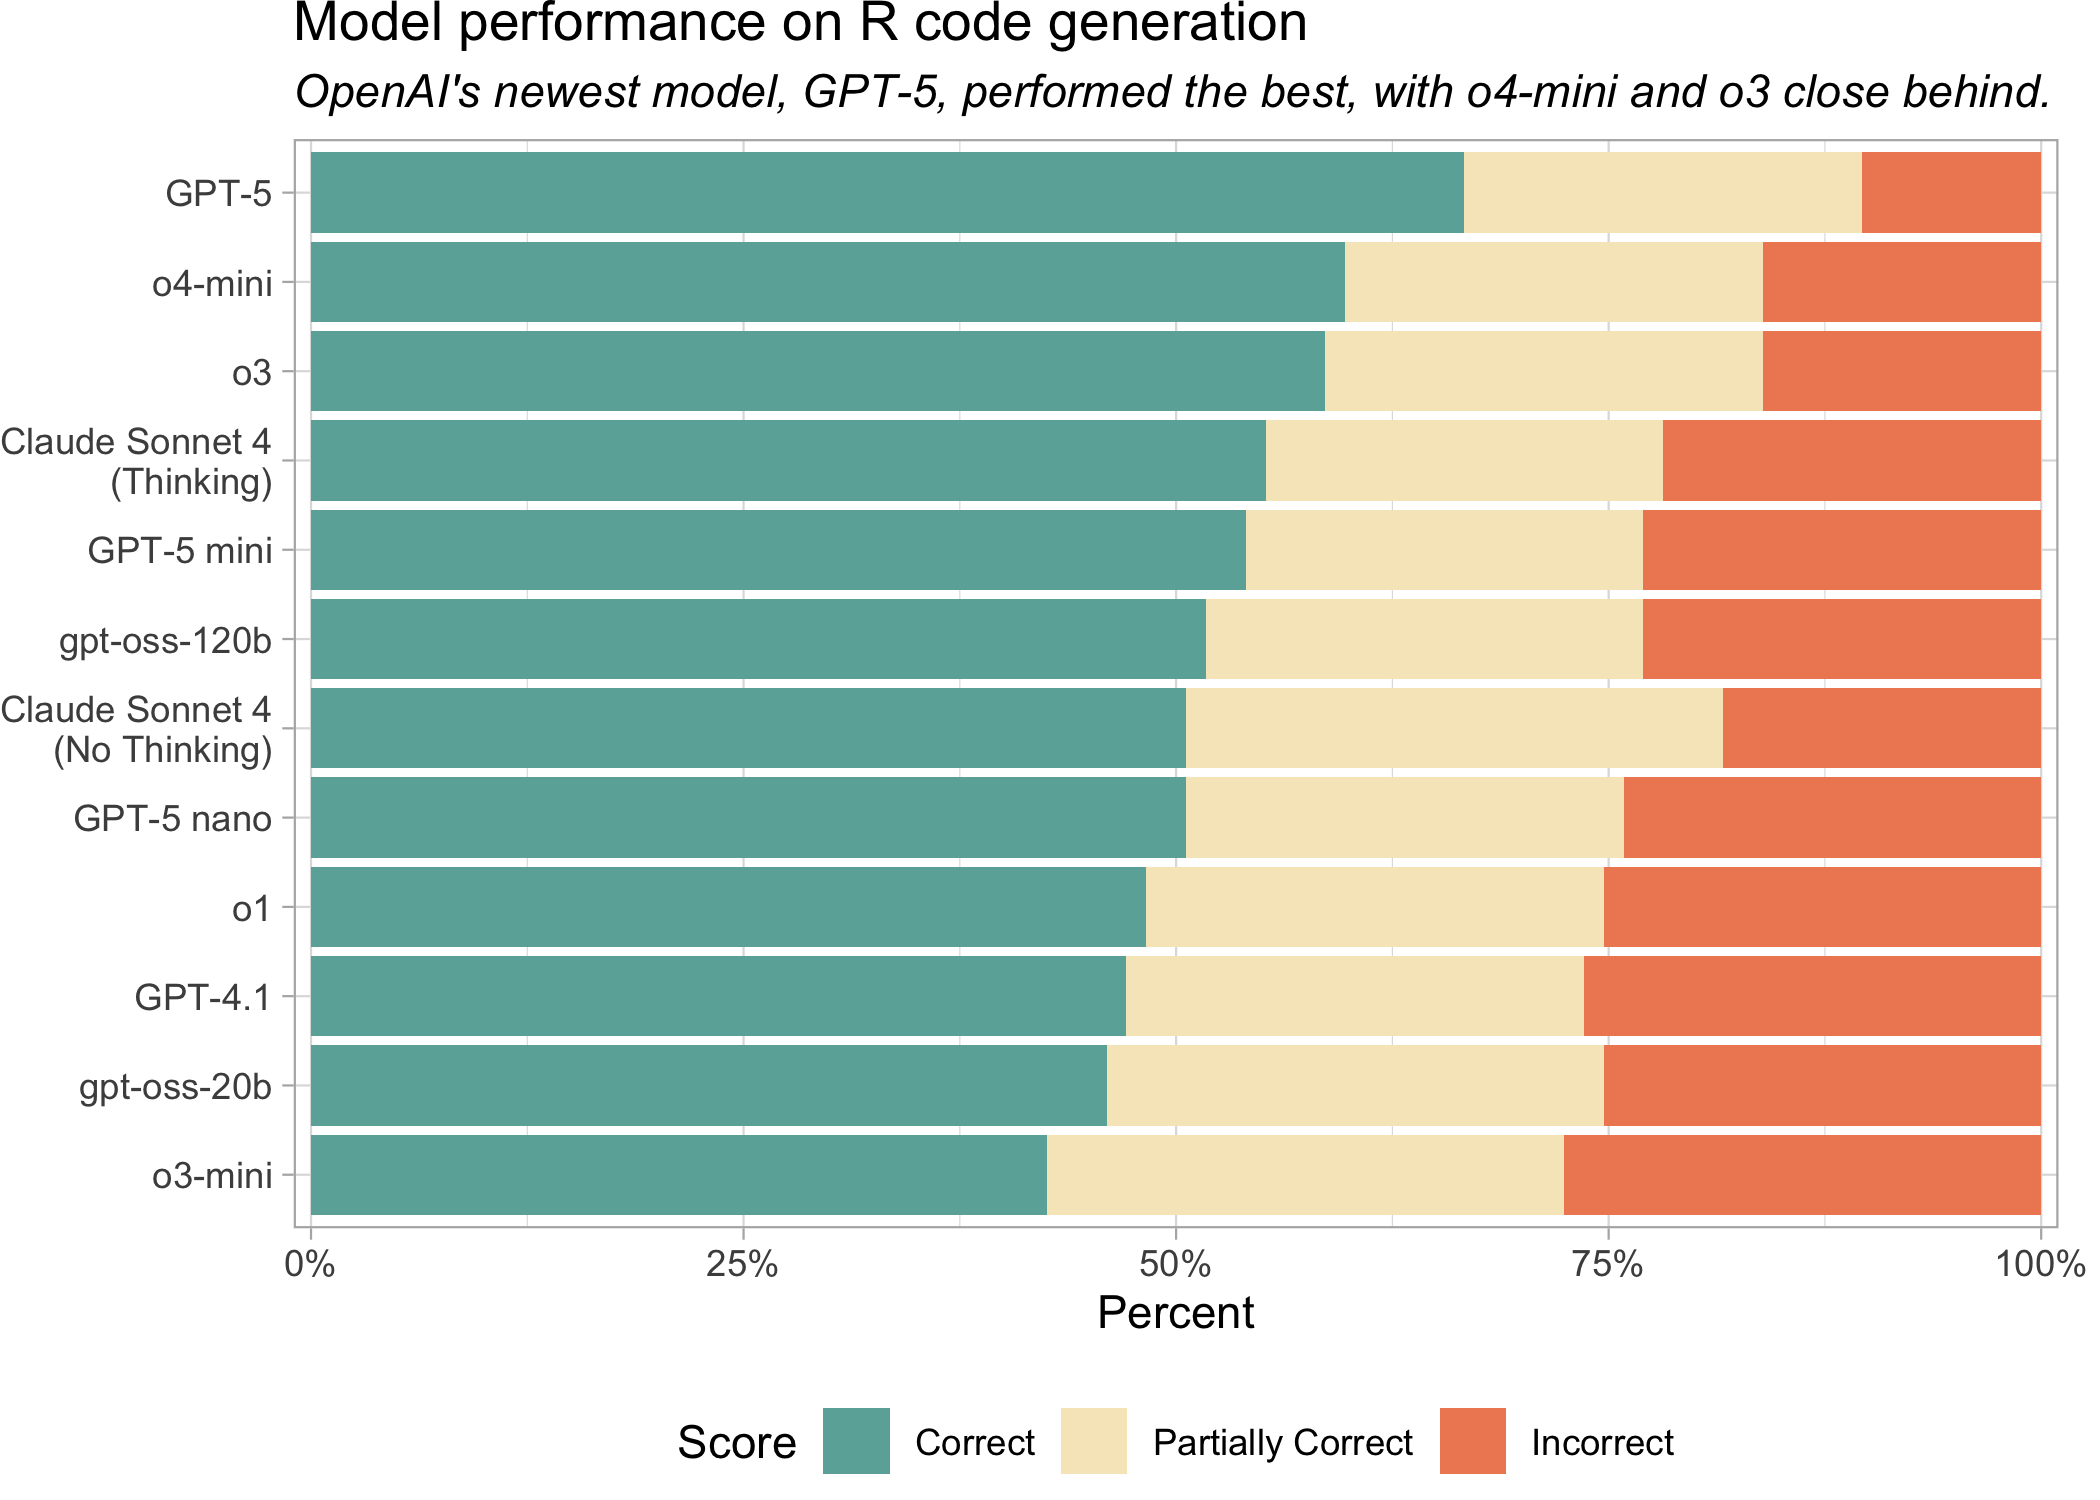
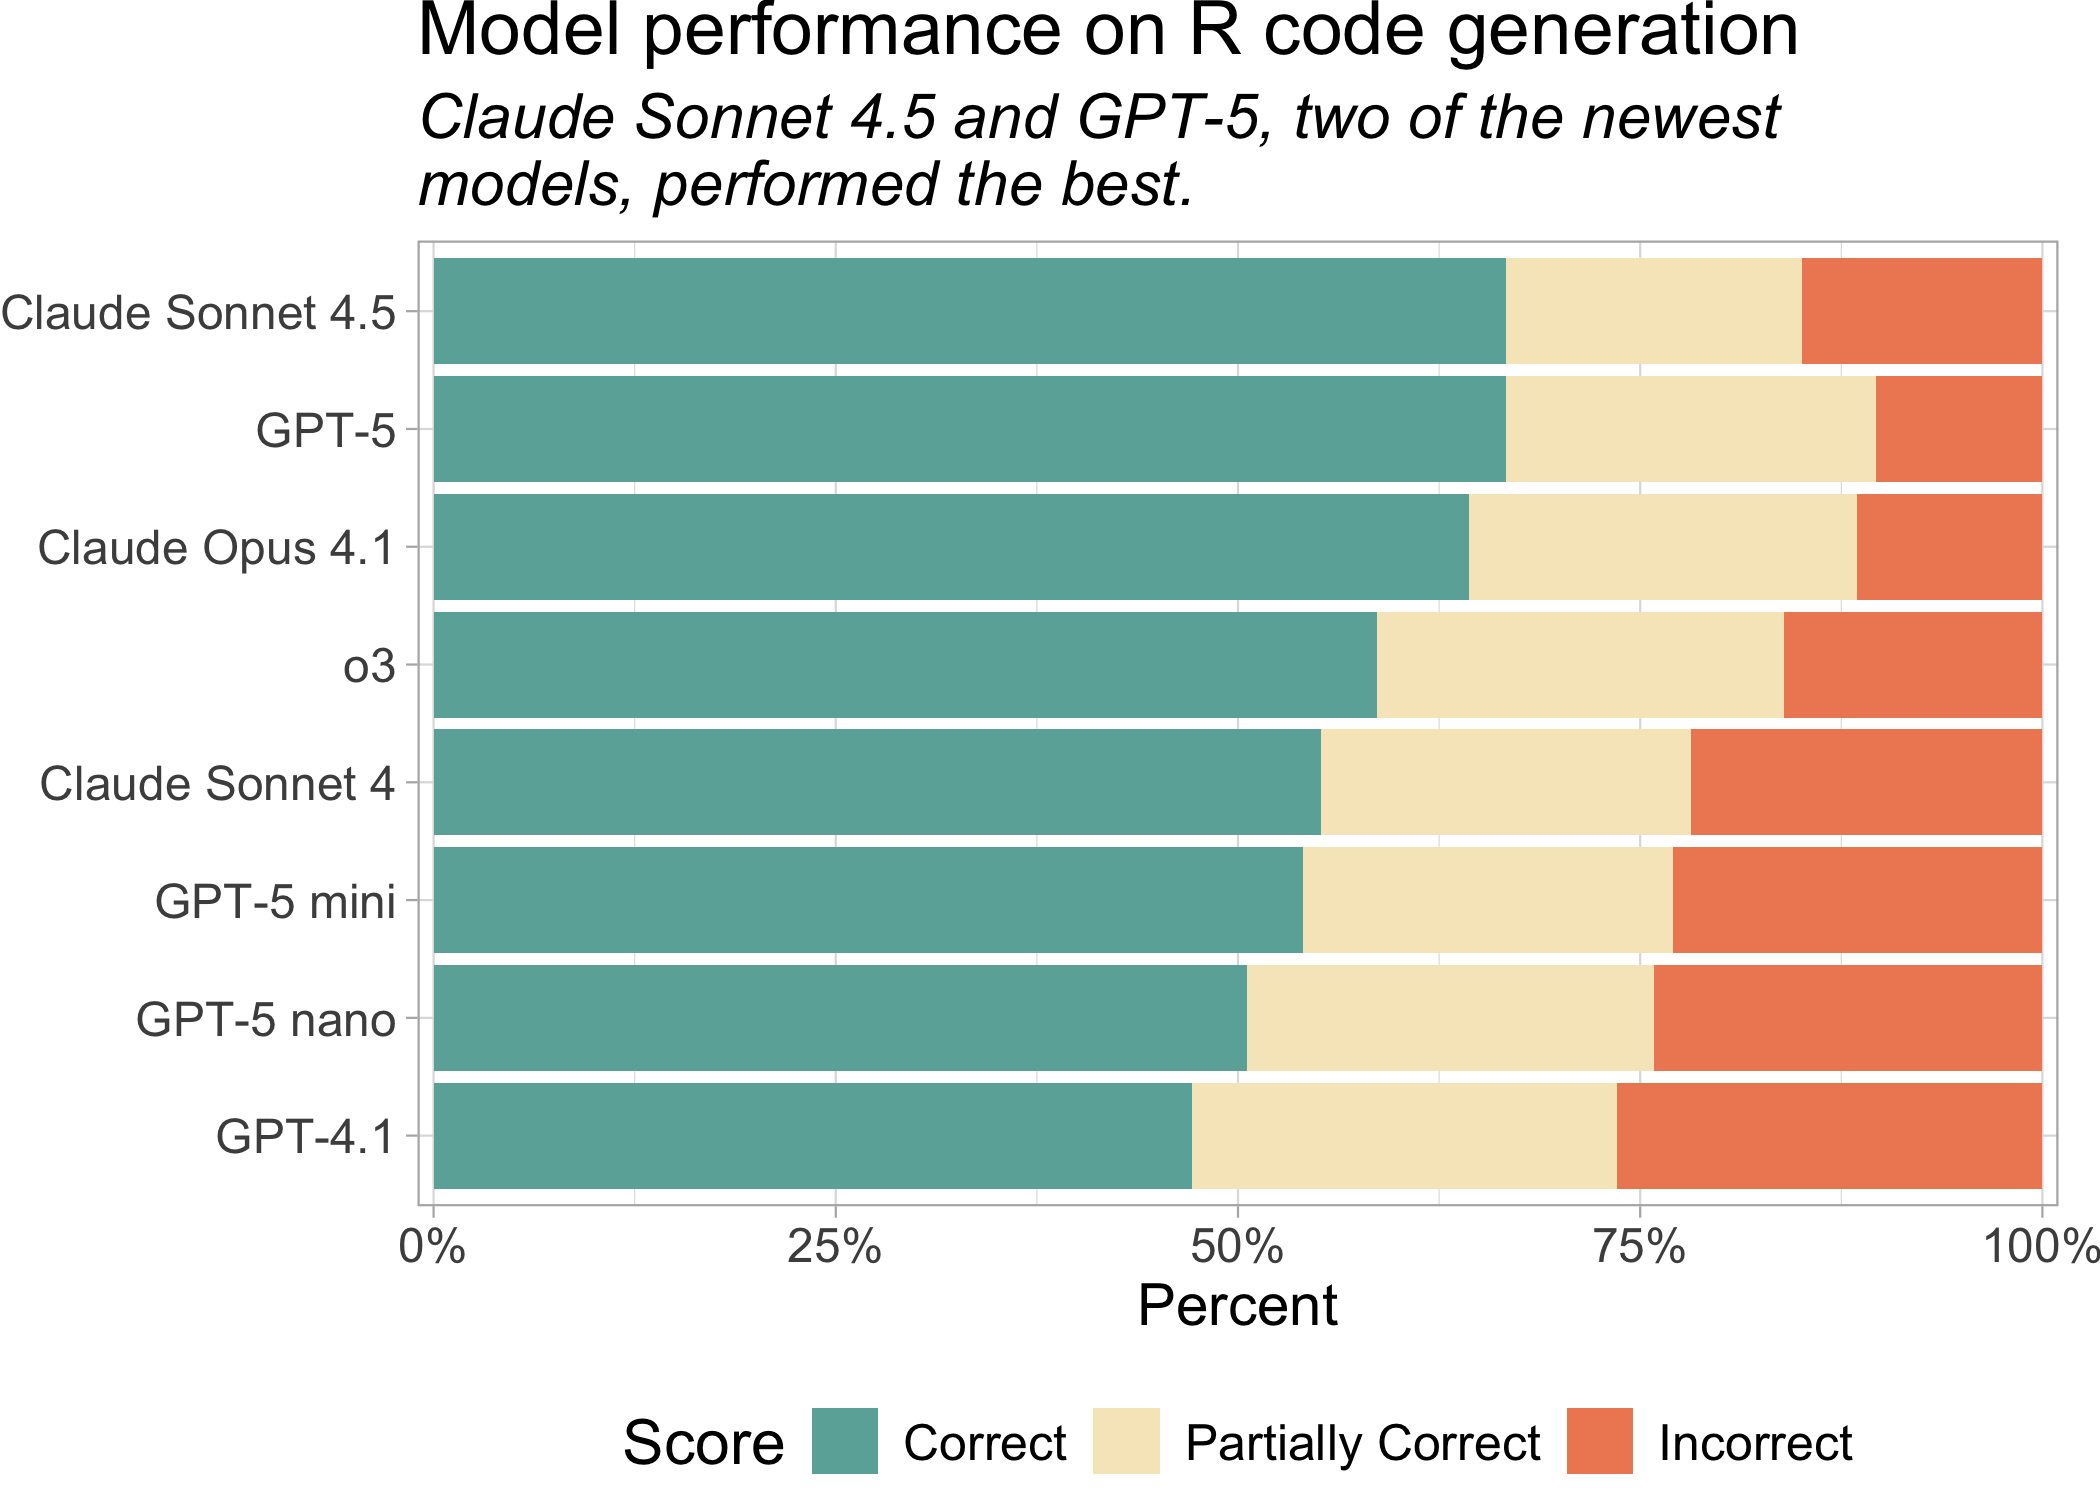
update with new models

diff --git a/blog.md b/blog.md
@@ -93,25 +93,25 @@ still need to host them somewhere, which can incur significant costs.
 LLM pricing is typically provided per million tokens. In our evaluation
 process, each model used between 26,070 and 31,720 input tokens and
 between 42,320 and 289,000 output tokens. The entire analysis cost
-around \$19.
+around \$24.
 
 As noted above, although the gpt-oss models are free to use, you may
 need to pay to host them if you are unable to run them locally.
 
-<div id="junykfxhhh" style="padding-left:0px;padding-right:0px;padding-top:10px;padding-bottom:10px;overflow-x:auto;overflow-y:auto;width:auto;height:auto;">
-<style>#junykfxhhh table {
+<div id="lvefqofxhr" style="padding-left:0px;padding-right:0px;padding-top:10px;padding-bottom:10px;overflow-x:auto;overflow-y:auto;width:auto;height:auto;">
+<style>#lvefqofxhr table {
   font-family: system-ui, 'Segoe UI', Roboto, Helvetica, Arial, sans-serif, 'Apple Color Emoji', 'Segoe UI Emoji', 'Segoe UI Symbol', 'Noto Color Emoji';
   -webkit-font-smoothing: antialiased;
   -moz-osx-font-smoothing: grayscale;
 }
-&#10;#junykfxhhh thead, #junykfxhhh tbody, #junykfxhhh tfoot, #junykfxhhh tr, #junykfxhhh td, #junykfxhhh th {
+&#10;#lvefqofxhr thead, #lvefqofxhr tbody, #lvefqofxhr tfoot, #lvefqofxhr tr, #lvefqofxhr td, #lvefqofxhr th {
   border-style: none;
 }
-&#10;#junykfxhhh p {
+&#10;#lvefqofxhr p {
   margin: 0;
   padding: 0;
 }
-&#10;#junykfxhhh .gt_table {
+&#10;#lvefqofxhr .gt_table {
   display: table;
   border-collapse: collapse;
   line-height: normal;
@@ -136,11 +136,11 @@ need to pay to host them if you are unable to run them locally.
   border-left-width: 2px;
   border-left-color: #D3D3D3;
 }
-&#10;#junykfxhhh .gt_caption {
+&#10;#lvefqofxhr .gt_caption {
   padding-top: 4px;
   padding-bottom: 4px;
 }
-&#10;#junykfxhhh .gt_title {
+&#10;#lvefqofxhr .gt_title {
   color: #333333;
   font-size: 125%;
   font-weight: initial;
@@ -151,7 +151,7 @@ need to pay to host them if you are unable to run them locally.
   border-bottom-color: #FFFFFF;
   border-bottom-width: 0;
 }
-&#10;#junykfxhhh .gt_subtitle {
+&#10;#lvefqofxhr .gt_subtitle {
   color: #333333;
   font-size: 85%;
   font-weight: initial;
@@ -162,7 +162,7 @@ need to pay to host them if you are unable to run them locally.
   border-top-color: #FFFFFF;
   border-top-width: 0;
 }
-&#10;#junykfxhhh .gt_heading {
+&#10;#lvefqofxhr .gt_heading {
   background-color: #FFFFFF;
   text-align: center;
   border-bottom-color: #FFFFFF;
@@ -173,12 +173,12 @@ need to pay to host them if you are unable to run them locally.
   border-right-width: 1px;
   border-right-color: #D3D3D3;
 }
-&#10;#junykfxhhh .gt_bottom_border {
+&#10;#lvefqofxhr .gt_bottom_border {
   border-bottom-style: solid;
   border-bottom-width: 2px;
   border-bottom-color: #D3D3D3;
 }
-&#10;#junykfxhhh .gt_col_headings {
+&#10;#lvefqofxhr .gt_col_headings {
   border-top-style: solid;
   border-top-width: 2px;
   border-top-color: #D3D3D3;
@@ -192,7 +192,7 @@ need to pay to host them if you are unable to run them locally.
   border-right-width: 1px;
   border-right-color: #D3D3D3;
 }
-&#10;#junykfxhhh .gt_col_heading {
+&#10;#lvefqofxhr .gt_col_heading {
   color: #333333;
   background-color: #FFFFFF;
   font-size: 100%;
@@ -211,7 +211,7 @@ need to pay to host them if you are unable to run them locally.
   padding-right: 5px;
   overflow-x: hidden;
 }
-&#10;#junykfxhhh .gt_column_spanner_outer {
+&#10;#lvefqofxhr .gt_column_spanner_outer {
   color: #333333;
   background-color: #FFFFFF;
   font-size: 100%;
@@ -222,13 +222,13 @@ need to pay to host them if you are unable to run them locally.
   padding-left: 4px;
   padding-right: 4px;
 }
-&#10;#junykfxhhh .gt_column_spanner_outer:first-child {
+&#10;#lvefqofxhr .gt_column_spanner_outer:first-child {
   padding-left: 0;
 }
-&#10;#junykfxhhh .gt_column_spanner_outer:last-child {
+&#10;#lvefqofxhr .gt_column_spanner_outer:last-child {
   padding-right: 0;
 }
-&#10;#junykfxhhh .gt_column_spanner {
+&#10;#lvefqofxhr .gt_column_spanner {
   border-bottom-style: solid;
   border-bottom-width: 2px;
   border-bottom-color: #D3D3D3;
@@ -239,10 +239,10 @@ need to pay to host them if you are unable to run them locally.
   display: inline-block;
   width: 100%;
 }
-&#10;#junykfxhhh .gt_spanner_row {
+&#10;#lvefqofxhr .gt_spanner_row {
   border-bottom-style: hidden;
 }
-&#10;#junykfxhhh .gt_group_heading {
+&#10;#lvefqofxhr .gt_group_heading {
   padding-top: 8px;
   padding-bottom: 8px;
   padding-left: 5px;
@@ -267,7 +267,7 @@ need to pay to host them if you are unable to run them locally.
   vertical-align: middle;
   text-align: left;
 }
-&#10;#junykfxhhh .gt_empty_group_heading {
+&#10;#lvefqofxhr .gt_empty_group_heading {
   padding: 0.5px;
   color: #333333;
   background-color: #FFFFFF;
@@ -281,13 +281,13 @@ need to pay to host them if you are unable to run them locally.
   border-bottom-color: #D3D3D3;
   vertical-align: middle;
 }
-&#10;#junykfxhhh .gt_from_md > :first-child {
+&#10;#lvefqofxhr .gt_from_md > :first-child {
   margin-top: 0;
 }
-&#10;#junykfxhhh .gt_from_md > :last-child {
+&#10;#lvefqofxhr .gt_from_md > :last-child {
   margin-bottom: 0;
 }
-&#10;#junykfxhhh .gt_row {
+&#10;#lvefqofxhr .gt_row {
   padding-top: 8px;
   padding-bottom: 8px;
   padding-left: 5px;
@@ -305,7 +305,7 @@ need to pay to host them if you are unable to run them locally.
   vertical-align: middle;
   overflow-x: hidden;
 }
-&#10;#junykfxhhh .gt_stub {
+&#10;#lvefqofxhr .gt_stub {
   color: #333333;
   background-color: #FFFFFF;
   font-size: 100%;
@@ -317,7 +317,7 @@ need to pay to host them if you are unable to run them locally.
   padding-left: 5px;
   padding-right: 5px;
 }
-&#10;#junykfxhhh .gt_stub_row_group {
+&#10;#lvefqofxhr .gt_stub_row_group {
   color: #333333;
   background-color: #FFFFFF;
   font-size: 100%;
@@ -330,13 +330,13 @@ need to pay to host them if you are unable to run them locally.
   padding-right: 5px;
   vertical-align: top;
 }
-&#10;#junykfxhhh .gt_row_group_first td {
+&#10;#lvefqofxhr .gt_row_group_first td {
   border-top-width: 2px;
 }
-&#10;#junykfxhhh .gt_row_group_first th {
+&#10;#lvefqofxhr .gt_row_group_first th {
   border-top-width: 2px;
 }
-&#10;#junykfxhhh .gt_summary_row {
+&#10;#lvefqofxhr .gt_summary_row {
   color: #333333;
   background-color: #FFFFFF;
   text-transform: inherit;
@@ -345,14 +345,14 @@ need to pay to host them if you are unable to run them locally.
   padding-left: 5px;
   padding-right: 5px;
 }
-&#10;#junykfxhhh .gt_first_summary_row {
+&#10;#lvefqofxhr .gt_first_summary_row {
   border-top-style: solid;
   border-top-color: #D3D3D3;
 }
-&#10;#junykfxhhh .gt_first_summary_row.thick {
+&#10;#lvefqofxhr .gt_first_summary_row.thick {
   border-top-width: 2px;
 }
-&#10;#junykfxhhh .gt_last_summary_row {
+&#10;#lvefqofxhr .gt_last_summary_row {
   padding-top: 8px;
   padding-bottom: 8px;
   padding-left: 5px;
@@ -361,7 +361,7 @@ need to pay to host them if you are unable to run them locally.
   border-bottom-width: 2px;
   border-bottom-color: #D3D3D3;
 }
-&#10;#junykfxhhh .gt_grand_summary_row {
+&#10;#lvefqofxhr .gt_grand_summary_row {
   color: #333333;
   background-color: #FFFFFF;
   text-transform: inherit;
@@ -370,7 +370,7 @@ need to pay to host them if you are unable to run them locally.
   padding-left: 5px;
   padding-right: 5px;
 }
-&#10;#junykfxhhh .gt_first_grand_summary_row {
+&#10;#lvefqofxhr .gt_first_grand_summary_row {
   padding-top: 8px;
   padding-bottom: 8px;
   padding-left: 5px;
@@ -379,7 +379,7 @@ need to pay to host them if you are unable to run them locally.
   border-top-width: 6px;
   border-top-color: #D3D3D3;
 }
-&#10;#junykfxhhh .gt_last_grand_summary_row_top {
+&#10;#lvefqofxhr .gt_last_grand_summary_row_top {
   padding-top: 8px;
   padding-bottom: 8px;
   padding-left: 5px;
@@ -388,10 +388,10 @@ need to pay to host them if you are unable to run them locally.
   border-bottom-width: 6px;
   border-bottom-color: #D3D3D3;
 }
-&#10;#junykfxhhh .gt_striped {
+&#10;#lvefqofxhr .gt_striped {
   background-color: rgba(128, 128, 128, 0.05);
 }
-&#10;#junykfxhhh .gt_table_body {
+&#10;#lvefqofxhr .gt_table_body {
   border-top-style: solid;
   border-top-width: 2px;
   border-top-color: #D3D3D3;
@@ -399,7 +399,7 @@ need to pay to host them if you are unable to run them locally.
   border-bottom-width: 2px;
   border-bottom-color: #D3D3D3;
 }
-&#10;#junykfxhhh .gt_footnotes {
+&#10;#lvefqofxhr .gt_footnotes {
   color: #333333;
   background-color: #FFFFFF;
   border-bottom-style: none;
@@ -412,7 +412,7 @@ need to pay to host them if you are unable to run them locally.
   border-right-width: 2px;
   border-right-color: #D3D3D3;
 }
-&#10;#junykfxhhh .gt_footnote {
+&#10;#lvefqofxhr .gt_footnote {
   margin: 0px;
   font-size: 90%;
   padding-top: 4px;
@@ -420,7 +420,7 @@ need to pay to host them if you are unable to run them locally.
   padding-left: 5px;
   padding-right: 5px;
 }
-&#10;#junykfxhhh .gt_sourcenotes {
+&#10;#lvefqofxhr .gt_sourcenotes {
   color: #333333;
   background-color: #FFFFFF;
   border-bottom-style: none;
@@ -433,57 +433,57 @@ need to pay to host them if you are unable to run them locally.
   border-right-width: 2px;
   border-right-color: #D3D3D3;
 }
-&#10;#junykfxhhh .gt_sourcenote {
+&#10;#lvefqofxhr .gt_sourcenote {
   font-size: 90%;
   padding-top: 4px;
   padding-bottom: 4px;
   padding-left: 5px;
   padding-right: 5px;
 }
-&#10;#junykfxhhh .gt_left {
+&#10;#lvefqofxhr .gt_left {
   text-align: left;
 }
-&#10;#junykfxhhh .gt_center {
+&#10;#lvefqofxhr .gt_center {
   text-align: center;
 }
-&#10;#junykfxhhh .gt_right {
+&#10;#lvefqofxhr .gt_right {
   text-align: right;
   font-variant-numeric: tabular-nums;
 }
-&#10;#junykfxhhh .gt_font_normal {
+&#10;#lvefqofxhr .gt_font_normal {
   font-weight: normal;
 }
-&#10;#junykfxhhh .gt_font_bold {
+&#10;#lvefqofxhr .gt_font_bold {
   font-weight: bold;
 }
-&#10;#junykfxhhh .gt_font_italic {
+&#10;#lvefqofxhr .gt_font_italic {
   font-style: italic;
 }
-&#10;#junykfxhhh .gt_super {
+&#10;#lvefqofxhr .gt_super {
   font-size: 65%;
 }
-&#10;#junykfxhhh .gt_footnote_marks {
+&#10;#lvefqofxhr .gt_footnote_marks {
   font-size: 75%;
   vertical-align: 0.4em;
   position: initial;
 }
-&#10;#junykfxhhh .gt_asterisk {
+&#10;#lvefqofxhr .gt_asterisk {
   font-size: 100%;
   vertical-align: 0;
 }
-&#10;#junykfxhhh .gt_indent_1 {
+&#10;#lvefqofxhr .gt_indent_1 {
   text-indent: 5px;
 }
-&#10;#junykfxhhh .gt_indent_2 {
+&#10;#lvefqofxhr .gt_indent_2 {
   text-indent: 10px;
 }
-&#10;#junykfxhhh .gt_indent_3 {
+&#10;#lvefqofxhr .gt_indent_3 {
   text-indent: 15px;
 }
-&#10;#junykfxhhh .gt_indent_4 {
+&#10;#lvefqofxhr .gt_indent_4 {
   text-indent: 20px;
 }
-&#10;#junykfxhhh .gt_indent_5 {
+&#10;#lvefqofxhr .gt_indent_5 {
   text-indent: 25px;
 }
 </style>
@@ -492,13 +492,15 @@ need to pay to host them if you are unable to run them locally.
 |----|----|----|----|----|----|
 | Input and Output costs are per 1 million tokens. 'Actual cost' reflects total charges for running the evaluation. |  |  |  |  |  |
 | Name | Input | Output | Actual cost | Input tokens used | Output tokens used |
+| Claude Sonnet 4.5 | \$3.00 | \$15.00 | \$1.02 | 31,314 | 61,936 |
 | GPT-5 | \$1.25 | \$10.00 | \$1.71 | 26,067 | 167,873 |
+| Claude Opus 4.1 | \$15.00 | \$75.00 | NA | NA | NA |
 | o4-mini | \$1.10 | \$4.40 | \$0.68 | 26,067 | 147,862 |
 | o3 | \$10.00 | \$40.00 | \$5.90 | 26,067 | 141,099 |
-| GPT-5 mini | \$0.25 | \$2.00 | \$0.22 | 26,067 | 108,853 |
-| gpt-oss-120b | \$0.00 | \$0.00 | \$0.00 | 31,722 | 116,514 |
 | Claude Sonnet 4 (No Thinking) | \$3.00 | \$15.00 | \$0.72 | 28,878 | 42,315 |
 | Claude Sonnet 4 (Thinking) | \$3.00 | \$15.00 | \$1.02 | 31,314 | 61,704 |
+| GPT-5 mini | \$0.25 | \$2.00 | \$0.22 | 26,067 | 108,853 |
+| gpt-oss-120b | \$0.00 | \$0.00 | \$0.00 | 31,722 | 116,514 |
 | GPT-5 nano | \$0.05 | \$0.40 | \$0.12 | 26,067 | 289,016 |
 | o1 | \$15.00 | \$60.00 | \$7.44 | 26,067 | 117,445 |
 | GPT-4.1 | \$2.00 | \$8.00 | \$0.43 | 26,154 | 47,351 |
